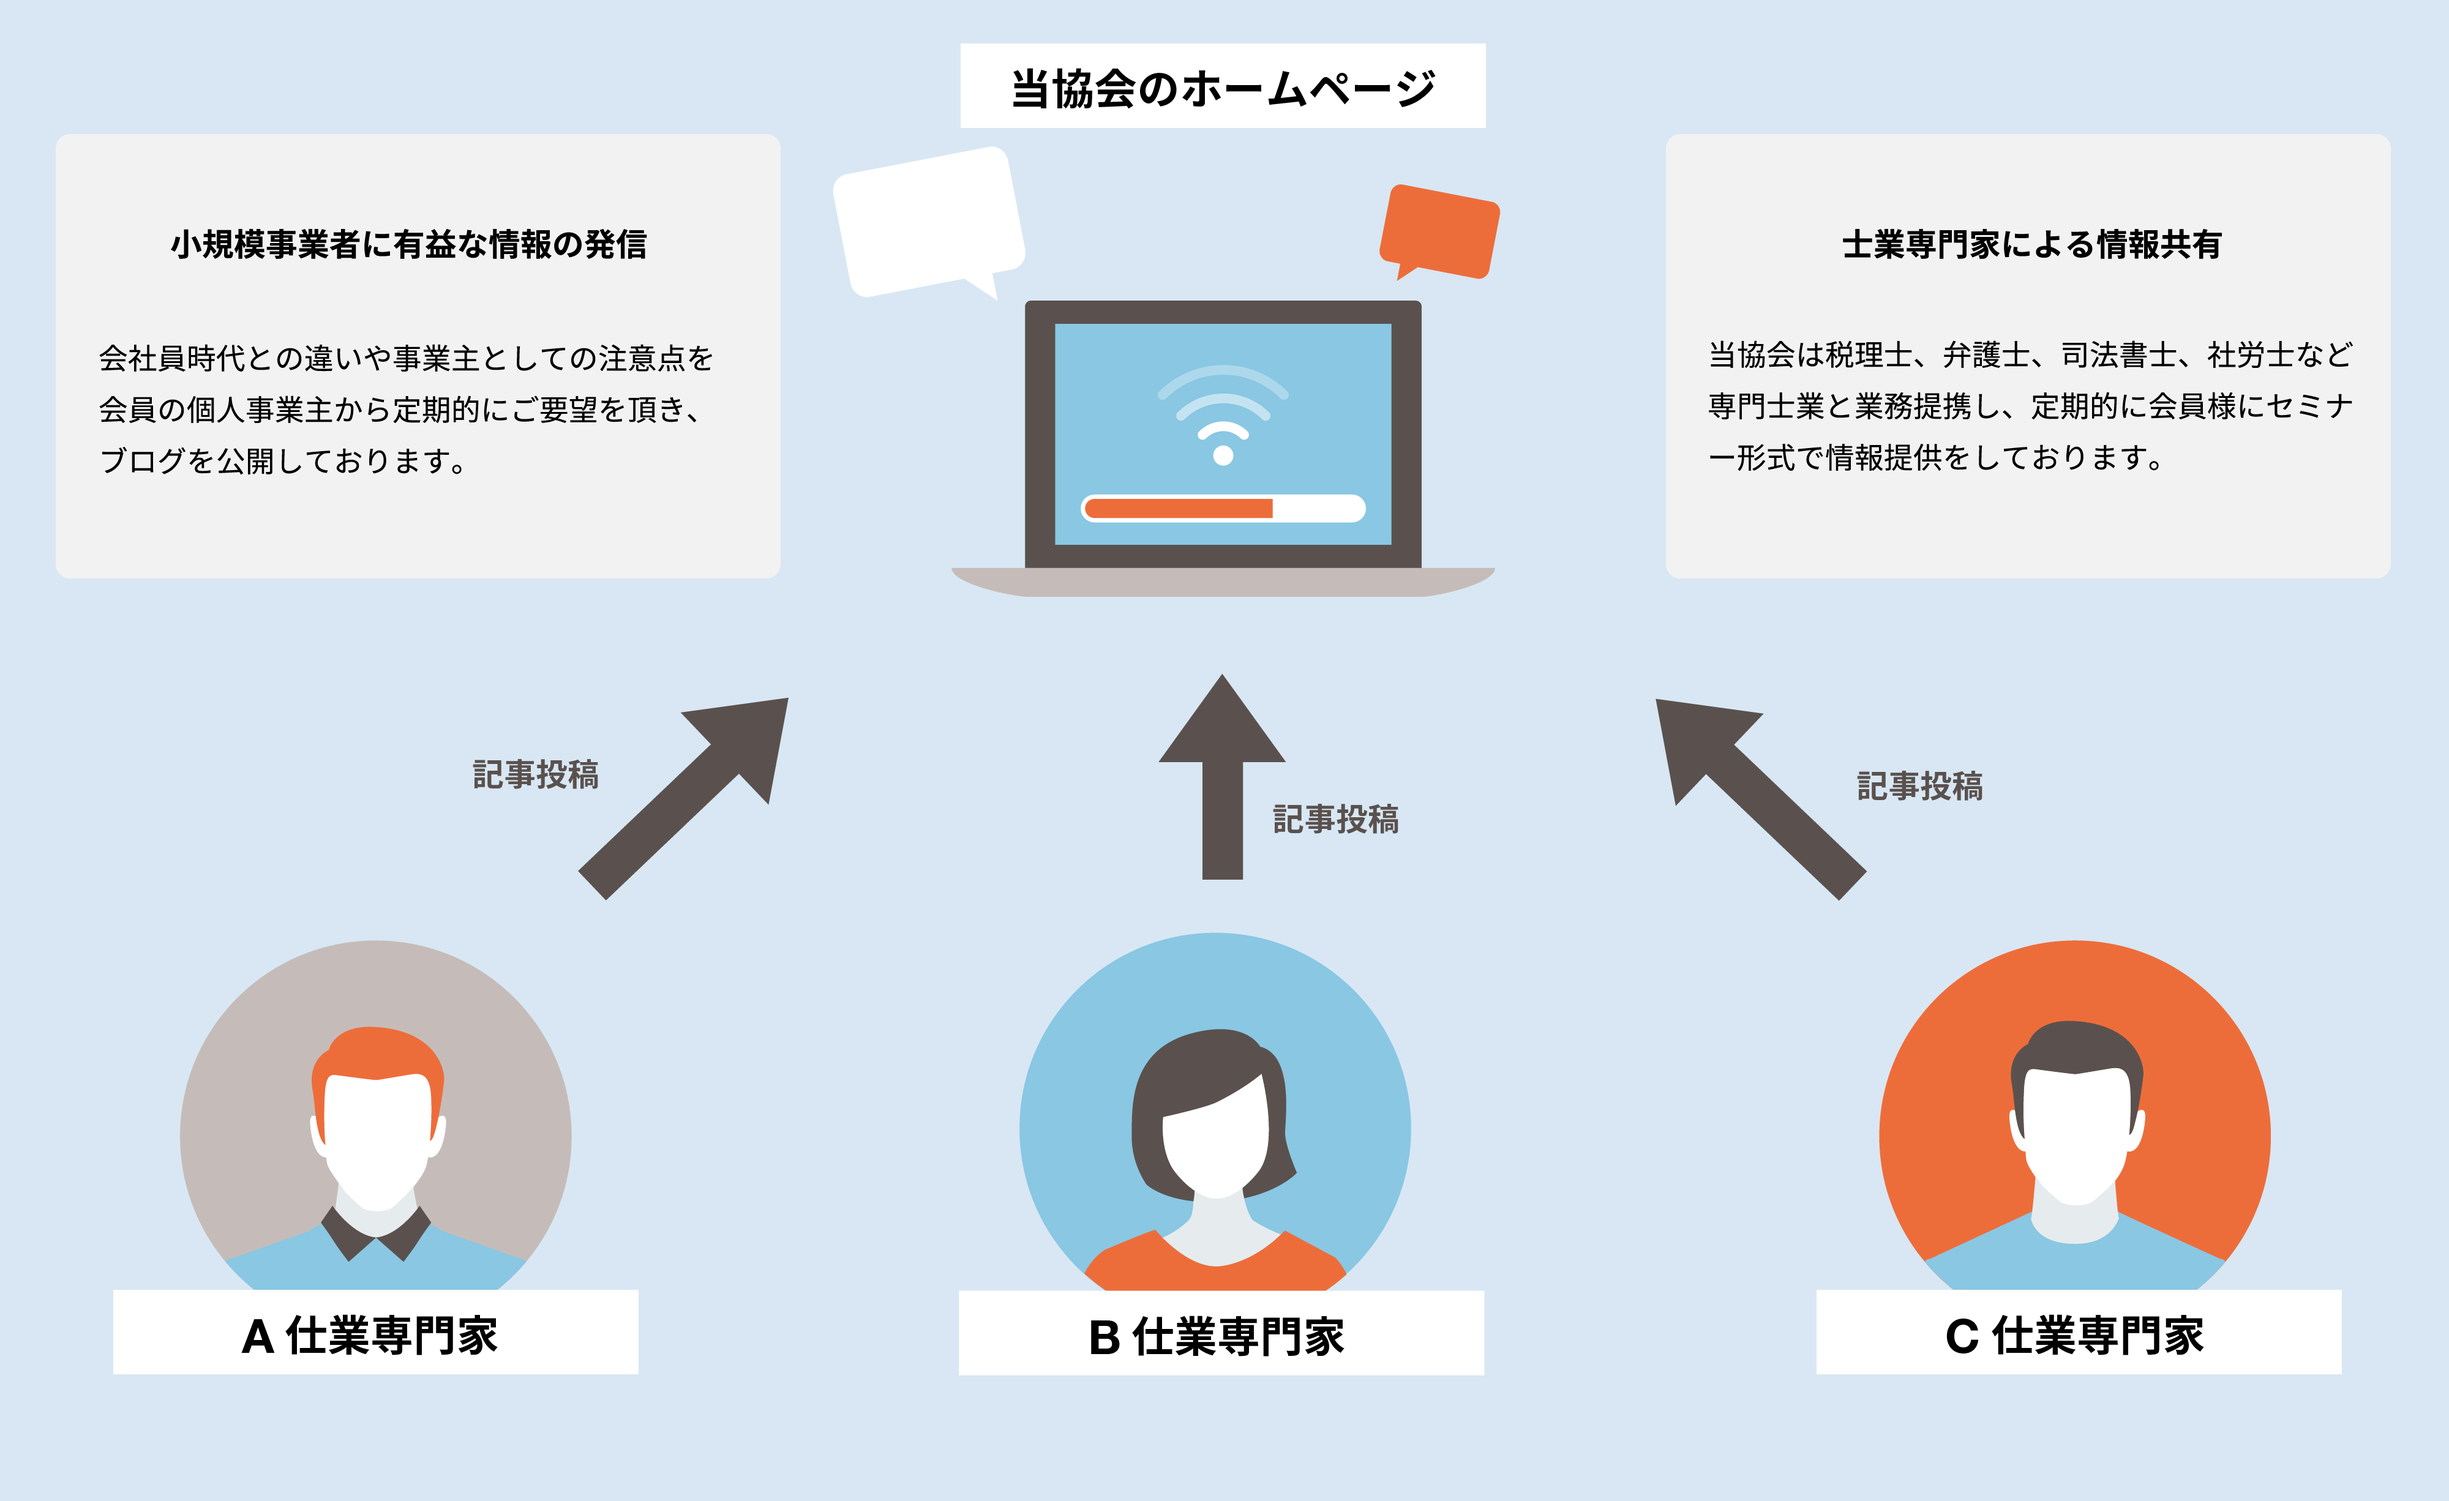
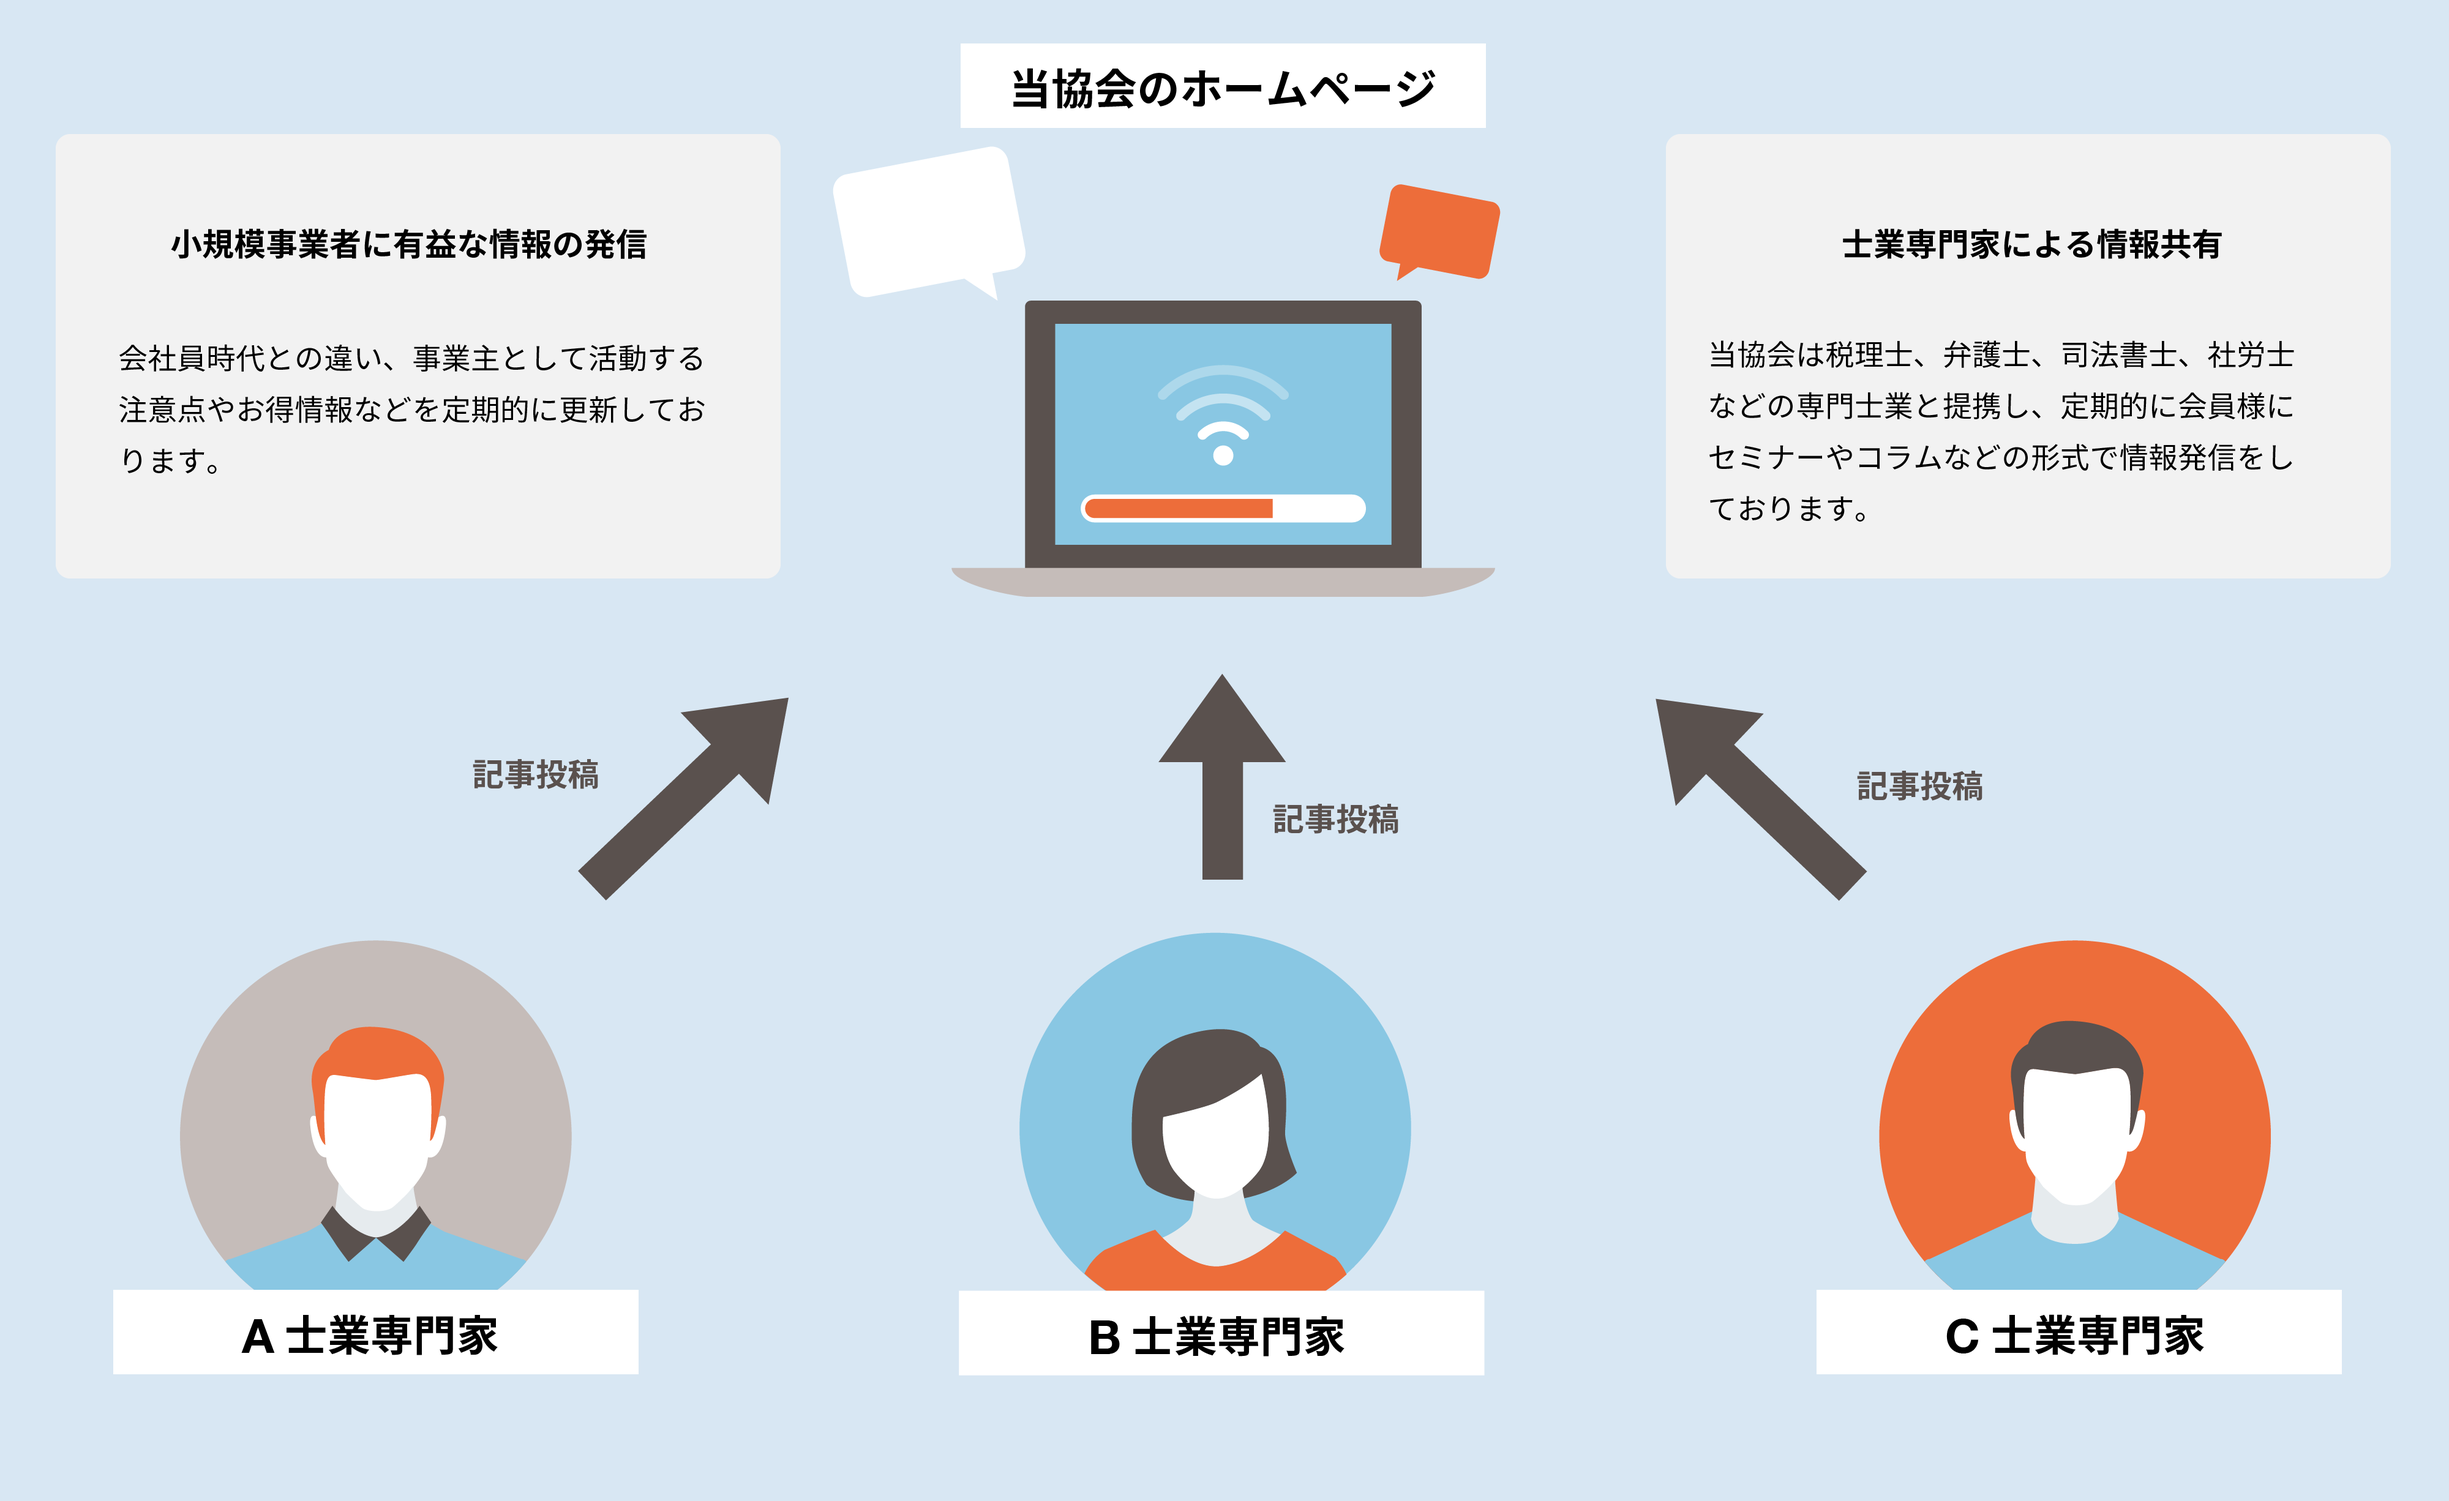
活動内容ページ更新

diff --git a/public/wp/front-page.php b/public/wp/front-page.php
@@ -196,8 +196,7 @@ get_header();
 						<!-- 右 -->
 						<div class="partner-block_flex__right">
 						<h3 class="partner-block_flex__right__title">小規模事業者に有益な情報の発信</h3>
-						<p class="partner-block_flex__right__text">会社員時代との違いや事業主としての注意点
-								個人事業主から定期的に要望を頂き、回答を公開している</p>
+						<p class="partner-block_flex__right__text">会社員時代との違い、事業主として活動する注意点やお得情報などを定期的に更新しております。</p>
 						</div>
 					</div>
 					</a>
@@ -215,7 +214,7 @@ get_header();
 							<!-- 右 -->
 							<div class="partner-block_flex__right">
 							<h3 class="partner-block_flex__right__title">士業専門家による情報共有</h3>
-							<p class="partner-block_flex__right__text">協会は税理士、弁護士、司法書士、社労士などの専門士業と業務提携し、定期的に会員様にセミナー形式で情報提供をしております。</p>
+							<p class="partner-block_flex__right__text">当協会は税理士、弁護士、司法書士、社労士などの専門士業と提携し、定期的に会員様にセミナーやコラムなどの形式で情報発信をしております。</p>
 							</div>
 						</div>
 					</a>
@@ -270,7 +269,7 @@ get_header();
 					<!-- 右 -->
 					<div class="partner-block_flex__right">
 					<h3 class="partner-block_flex__right__title">法人化サポート</h3>
-					<p class="partner-block_flex__right__text">一定の売上を上げた事業主様は法人化のサポートもしております。</p>
+					<p class="partner-block_flex__right__text">一定の売上を超えると税金対策などで法人化が必要になる事業主様もいます。法人化のサポートも致します。</p>
 					</div>
 				</div>
 				</a>
@@ -288,7 +287,7 @@ get_header();
 					<!-- 右 -->
 					<div class="partner-block_flex__right">
 					<h3 class="partner-block_flex__right__title">提携先や案件の紹介</h3>
-					<p class="partner-block_flex__right__text">会員様は士業との顧問契約やスポットのご依頼を特別価格で受けて頂くことが出来ます。</p>
+					<p class="partner-block_flex__right__text">協会の持っている人脈を屈指し、会員様の本業につながる案件のご紹介をします。また、必要あれば協会の提携している士業を特別価格でご紹介します。</p>
 					</div>
 				</div>
 				</a>

diff --git a/public/wp/page-activity.php b/public/wp/page-activity.php
@@ -26,9 +26,9 @@ Template Name: ACTIVITY template
             テキストテキストテキストテキストテキストテキストテキストテキストテキストテキストテキストテキストテキストテキストテキストテキストテキストテキストテキストテキストテキストテキストテキストテキストテキストテキストテキストテキストテキストテキストテキストテキストテキストテキストテキストテキストテキストテキストテキストテキストテキストテキストテキストテキストテキストテキストテキストテキストテキストテキストテキストテキストテキストテキストテキストテキストテキストテキストテキストテキストテキストテキストテキストテキストテキストテキストテキストテキストテキストテキストテキストテキスト
           </p> -->
         </section>
-        <!-- コストや財務問題の解決 -->
+        <!-- 財務相談 -->
         <section id="activity-2" class="p-activity-block section-block">
-          <h2 class="p-activity-block_title">財務問題の解決</h2>
+          <h2 class="p-activity-block_title">財務相談</h2>
           <div class="p-activity-block-wrap">
             <div class="p-activity-block_img activity-2">
               <img src="<?php bloginfo('template_url'); ?>/images/activity/cosutomondai@2x.png" class="" alt="コストや財務問題の解決">

diff --git a/public/wp/page-outline.php b/public/wp/page-outline.php
@@ -38,7 +38,7 @@ Template Name: OUTLINE template
             </dl>
             <dl class="c-table__row">
               <dt>発起人</dt>
-              <dd>江本 一朗</dd>
+              <dd>江本 一郎</dd>
             </dl>
             <dl class="c-table__row">
               <dt>活動内容</dt>
